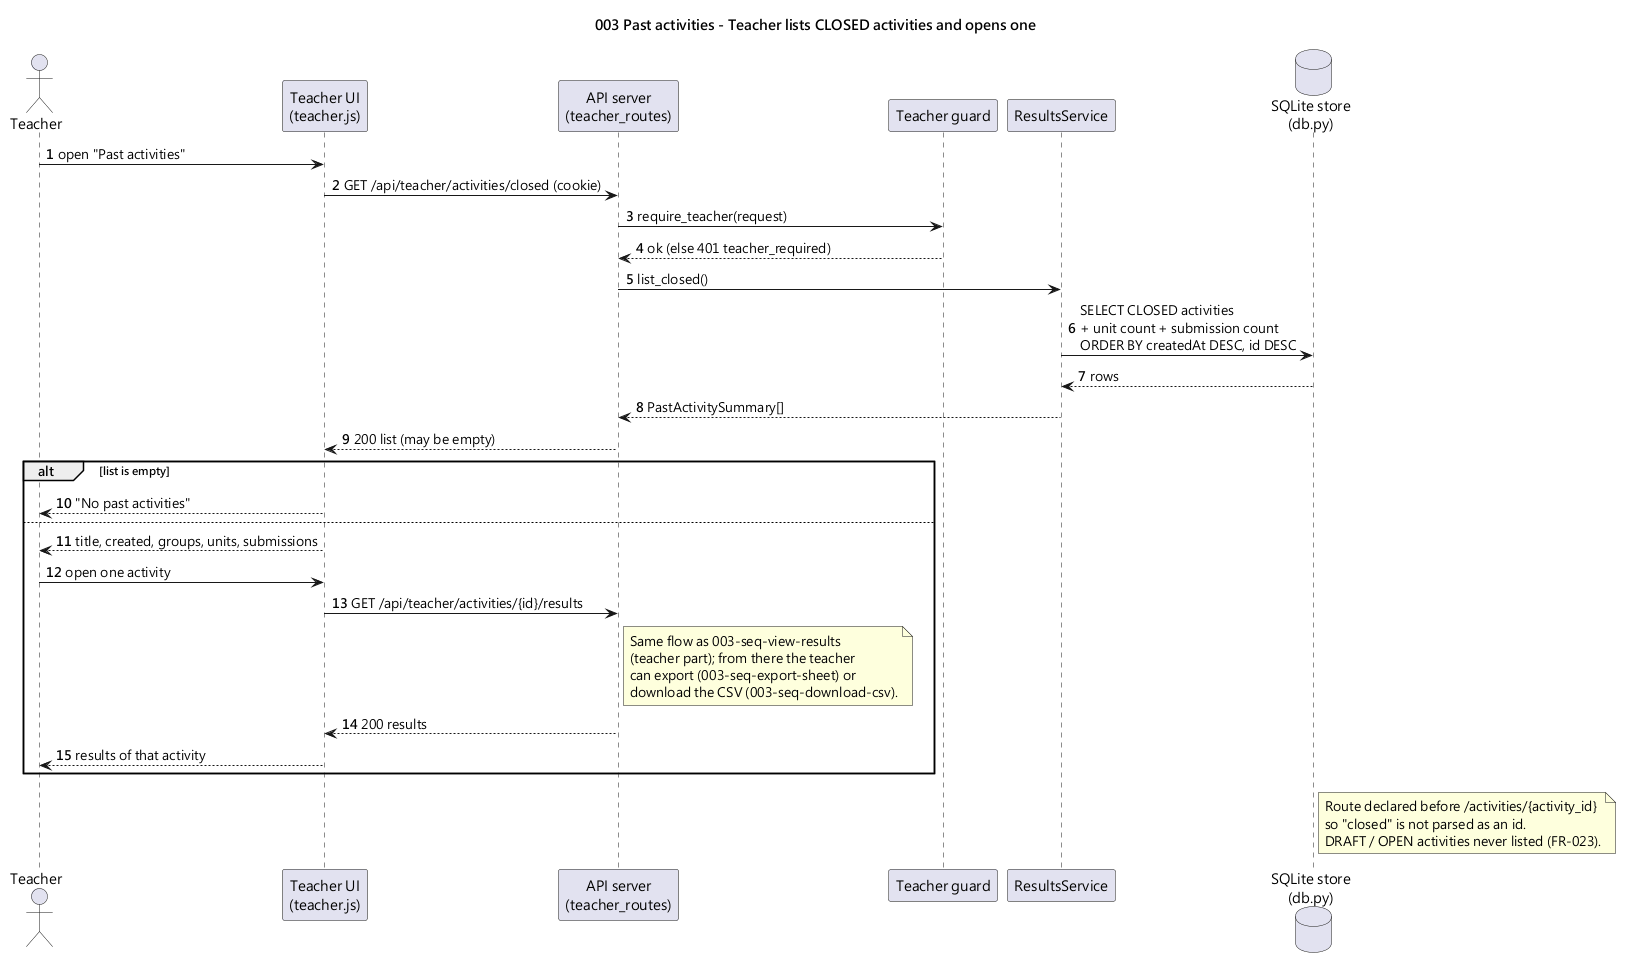
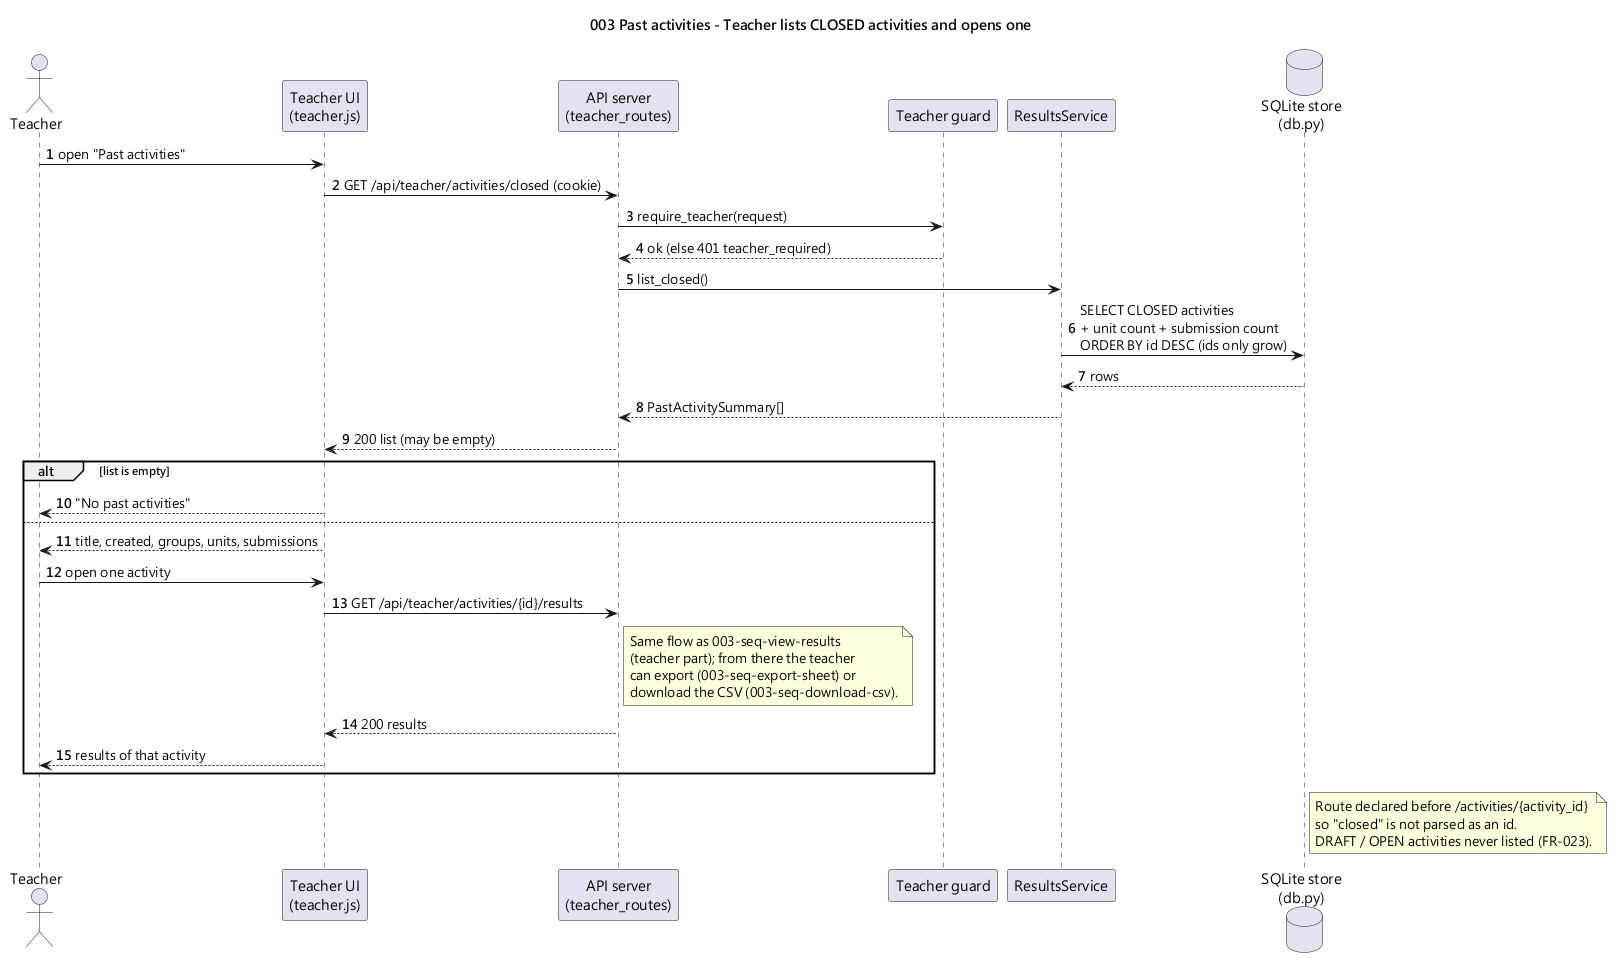
chore(003): Phase 7 polish - log hygiene, CLOSED push latency, code-vs-diagram verification
- test_logs_003: no answers / names in logs during results, export, CSV.
- test_push_latency: CLOSED snapshot with full results reaches 60 sockets in < 1 s.
- diagrams/VERIFICATION.md Feature 003: E8-E11 diagram corrections, re-rendered 16/16.
- docs/verification.md: test-first record and automated run (550 passed).

diff --git a/tests/integration/test_push_latency.py b/tests/integration/test_push_latency.py
@@ -56,3 +56,34 @@ def test_phase_change_and_submission_reach_everyone_within_one_second(app, clien
         submit_seconds = time.monotonic() - started
         print(f"submission reached 2 teacher + 5 group sockets in {submit_seconds:.3f} s")
         assert submit_seconds < 1.0, f"submission reached teachers + group in {submit_seconds:.3f} s"
+
+        # 003 SC-001 (T035): the CLOSED snapshot now carries the full results for every member.
+        for g in range(1, GROUPS + 1):
+            for u in a["units"]:
+                answers = [{"subPart": sl["subPart"], "text": f"g{g}"} for sl in u["slots"]]
+                if g == 7 and u["id"] == unit["id"]:
+                    continue  # already submitted above
+                r = submitter.post("/api/student/submissions", headers=cookie(tokens[(g, 0)]),
+                                   json={"unitId": u["id"], "answers": answers})
+                assert r.status_code == 201, r.text
+        for ws in teachers:  # drain the submission pushes
+            while True:
+                try:
+                    recv(ws, timeout=0.2)
+                except AssertionError:
+                    break
+        for ws in students.values():
+            while True:
+                try:
+                    recv(ws, timeout=0.05)
+                except AssertionError:
+                    break
+        started = time.monotonic()
+        assert client.post(f"/api/teacher/activities/{a['id']}/end").status_code == 200
+        for ws in students.values():
+            state = next_of_type(ws, "student.state")["state"]
+            assert state["activity"]["phase"] == "CLOSED"
+            assert len(state["results"]["units"]) == len(a["units"])
+        close_seconds = time.monotonic() - started
+        print(f"CLOSED with results reached 60 student sockets in {close_seconds:.3f} s")
+        assert close_seconds < 1.0, f"CLOSED with results reached all students in {close_seconds:.3f} s"

diff --git a/tests/integration/test_logs_003.py b/tests/integration/test_logs_003.py
@@ -1,0 +1,39 @@
+"""No answer text or display names in logs during results, export and CSV (003 T034, FR-024)."""
+
+from __future__ import annotations
+
+import logging
+
+from tests.live_helpers import create_activity, open_activity
+
+SENTINEL = "zq9SENTINEL003x"
+SID = "template_group"
+
+
+def test_results_export_and_csv_log_no_student_data(client, student_client, fake_adapter, caplog):
+    caplog.set_level(logging.DEBUG)
+    a = create_activity(client)
+    s = student_client()
+    r = s.post("/api/student/join", json={
+        "activityId": a["id"], "groupNumber": 1, "displayName": f"名-{SENTINEL}"})
+    assert r.status_code == 201
+    open_activity(client, a)
+    unit = a["units"][2]  # single
+    body = {"unitId": unit["id"], "answers": [{"subPart": 1, "text": f"=ans-{SENTINEL}"}]}
+    assert s.post("/api/student/submissions", json=body).status_code == 201
+    assert client.post(f"/api/teacher/activities/{a['id']}/end").status_code == 200
+
+    s.get("/api/student/state")
+    assert client.get(f"/api/teacher/activities/{a['id']}/results").status_code == 200
+    assert client.get(f"/api/teacher/activities/{a['id']}/results.csv").status_code == 200
+    assert client.post(f"/api/teacher/activities/{a['id']}/export").status_code == 200
+
+    grid = fake_adapter.read_tab(SID, 0).grid
+    del grid[10]  # the winning question disappears: blocked export
+    fake_adapter.replace_tab(SID, 0, grid)
+    assert client.post(f"/api/teacher/activities/{a['id']}/export").status_code == 409
+
+    assert caplog.records, "expected some log records to inspect"
+    assert any("export" in rec.getMessage() for rec in caplog.records)
+    for record in caplog.records:
+        assert SENTINEL not in record.getMessage(), (record.name, record.getMessage())

diff --git a/diagrams/VERIFICATION.md b/diagrams/VERIFICATION.md
@@ -220,3 +220,93 @@ Re-rendered with `java -jar tools/plantuml.jar "./diagrams/*.puml"` (exit 0, 12/
 
 Not discrepancies: `/student` and the `/` redirect have no sequence diagram (research R8); the
 teacher and student pages are covered by the component diagram and the manual checks M11–M25.
+
+---
+
+# Code-vs-Diagram Verification — Feature 003 (Principle VIII)
+
+**Date**: 2026-11-27 · **Scope**: `src/quizbuzzer/` after `/speckit-implement` for 003 (T001–T038;
+README T039 and the manual checks T040 left to a human) · **Diagrams**: `system-component`,
+`domain-class`, `003-seq-view-results`, `003-seq-export-sheet`, `003-seq-download-csv`,
+`003-seq-past-activities` · **Method**: every element, name, call, route and status code below
+was checked by reading the code against the `.puml` source.
+
+**Result**: consistent after 4 diagram corrections (E8–E11) plus the implementation-time change
+recorded in plan.md (`load`, US2). In every case the code follows the spec and contracts, so the
+diagrams were updated. Re-rendered with `java -jar tools/plantuml.jar "./diagrams/*.puml"`
+(exit 0, 16/16 PNGs fresh); `003-seq-view-results` and `003-seq-export-sheet` inspected visually.
+
+## system-component.puml
+
+| Diagram element | Code | Status |
+|---|---|---|
+| Teacher UI (… results, export, CSV, past activities) | `teacher.js`: `showResults`, export button with `confirm()`, `csv-link`, `loadPast` | ✅ |
+| Student UI (… results when CLOSED) | `student.js`: `renderResults` (winner, rank table, 無人作答) | ✅ |
+| Visibility filter `student_view(…, results: CLOSED only)` | `student_view(..., *, results=None)`; adds `results` only for a member of the same CLOSED activity | ✅ |
+| Results service `ResultsService (results, past list, CSV)` | `teacher_results`, `load`, `results_for`, `list_closed`, `results_csv`; pure `build_results`, `results_out`, `csv_filename` | ✅ |
+| Sheet exporter `SheetExporter (re-read, re-locate, write)` | `SheetExporter.export`, pure `plan_export`, `format_cell`, `ExportBlocked`, `ExportNotShared` | ✅ |
+| CSV writer `to_csv(results) -> bytes` | `csv_export.to_csv` (pure) | ✅ |
+| TR → RES, TR → EXP | `get_results`, `closed_activities`, `results_csv` → `app.state.results`; `export_to_sheet` → `app.state.exporter` | ✅ |
+| PART → RES `results_for(activity)` only when CLOSED | `ParticipationService._member_view` | ✅ |
+| RES → DB read only; RES → CSVW | no write in `results_service.py`; `results_csv` calls `to_csv` | ✅ |
+| EXP → RES "teacher results (winners)" | `self.results_service.load(activity_id, action="export")` | ⚠ → diagram updated (E8) |
+| EXP → SAI `read_tab` (read-only); EXP → SWI `write_cells(spreadsheet_id, sheet_id, tab_title, cells)`; EXP → PARSER `parse` | `adapter.read_tab`, `writer.write_cells(tab.spreadsheet_id, tab.sheet_id, tab.title, cells)`, `guided_notes_parser.parse` | ✅ |
+| `SheetsWriter`; `GoogleSheetsWriter` (own credentials, write scope); one `values.batchUpdate` RAW | `sheets_adapter.SheetsWriter`; `google_sheets_writer.py` (`WRITE_SCOPE`, one `batchUpdate`, `valueInputOption: RAW`) | ✅ |
+| GSAD → GSA `spreadsheets.readonly` scope | `READONLY_SCOPE` unchanged; `GoogleSheetsAdapter` has no write method (tested) | ✅ |
+| Notes: stored addresses never written, ranges from current title; CSV rules; lazy wrappers; guard covers 003 routes | `plan_export` uses parsed `a1_ref`; `LazyGoogleSheetsWriter`; guard test lists 003 routes | ✅ |
+
+## domain-class.puml
+
+| Diagram element | Code (`models.py`) | Status |
+|---|---|---|
+| `ActivityResults {activityId, title, units}` | also `phase`, `group_count` | ⚠ → diagram updated (E9) |
+| `UnitResult {number, kind, entries, winner(), noAnswer()}` | also `unit_id`, `sub_parts`; `winner` / `no_answer` properties | ⚠ → diagram updated (E9) |
+| `ResultEntry {…, isWinner : bool, submitterName}` | `is_winner` property, field `submitted_by` | ⚠ → diagram updated (E9) |
+| `StudentResults <<view>>` projected by `student_view()` | `visibility._student_results` | ✅ |
+| `PastActivitySummary`, `CellWrite {a1Ref, text}`, `ExportReport {cellsWritten, unitsWritten, unitsSkipped}`, `ExportProblem {kind, questionNumber, subPart, code, message}` | same fields | ✅ |
+| Notes: stored `AnswerSlot` cell never written by 003; `Submission` read only, ranks to students only when CLOSED | `plan_export`; `student_view` | ✅ |
+
+## 003-seq-view-results.puml
+
+| Step | Code | Status |
+|---|---|---|
+| `publish_student_states()` after End; results built once, before the socket loop | built in `_member_view` per StudentKey (cached per key in `_send`) | ⚠ → diagram updated (E10) |
+| filter alt: member of CLOSED → results without names / times; no membership → none | `student_view` | ✅ |
+| Reconnect `API -> PSVC : state_for(cookie)` | `state_for_token` | ⚠ → diagram updated (E10) |
+| Teacher: `teacher_results` → 404 / 409 `phase_conflict` / 200 | `get_results` + error mappings | ✅ |
+
+## 003-seq-export-sheet.puml
+
+| Step | Code | Status |
+|---|---|---|
+| `POST …/export`, guard, `export(activity_id)` | `export_to_sheet` | ✅ |
+| `load(...)`: 404 `not_found`, 409 `phase_conflict` | `ResultsService.load` | ✅ (plan.md US2 change) |
+| zero winners → report 0, no Google call | early return in `export` | ✅ |
+| `read_tab`: not shared → 403 `export_not_shared`; gone → 404 `not_found`; down → 502 `sheets_unavailable` | `export` + error mappings | ✅ |
+| `parse` → `plan_export`; problems → 409 `export_blocked`, nothing written | `plan_export` raises before `write_cells` | ✅ |
+| `write_cells(..., current tab title, cells)` → one `batchUpdate` RAW; 403 → 403 `sheet_read_only`; success → 200 report | `GoogleSheetsWriter._execute`; `export_to_sheet` | ✅ |
+
+## 003-seq-download-csv.puml
+
+| Step | Code | Status |
+|---|---|---|
+| `GET …/results.csv`, guard, `results_csv`; 404 / 409 | route + `ResultsService.results_csv` (`action="csv"`) | ✅ |
+| `to_csv`: BOM + header, `sub_part` empty for single, `is_winner`, ISO 8601 offset, `'` prefix, quoting | `csv_export.to_csv` | ✅ |
+| 200 `text/csv; charset=utf-8`, attachment, safe file name | `Content-Disposition` with `filename` + `filename*` | ✅ |
+
+## 003-seq-past-activities.puml
+
+| Step | Code | Status |
+|---|---|---|
+| `GET /api/teacher/activities/closed` before `{activity_id}` | route order in `teacher_routes.py` | ✅ |
+| `list_closed()` → `ORDER BY createdAt DESC, id DESC` | `db.list_closed_activities`: `ORDER BY a.id DESC` (research R7) | ⚠ → diagram updated (E11) |
+| open one → results flow | `loadPast` → `loadResults` | ✅ |
+
+## Discrepancies and resolutions (003)
+
+| # | Diagram | Was | Now (matches code and spec) |
+|---|---|---|---|
+| E8 | system-component | EXP → RES "teacher results (winners)" | `load(activity_id, "export")` (activity + results) |
+| E9 | domain-class | result types missing `phase`, `groupCount`, `unitId`, `subParts`; `submitterName`; `isWinner` field | fields as in `models.py`; `submittedBy`; `isWinner()` derived |
+| E10 | 003-seq-view-results | results built once before the loop; `state_for(cookie)` | built per member key inside the loop; `state_for_token(cookie)` |
+| E11 | 003-seq-past-activities | `ORDER BY createdAt DESC, id DESC` | `ORDER BY id DESC (ids only grow)` |

diff --git a/specs/003-results-export/tasks.md b/specs/003-results-export/tasks.md
@@ -183,11 +183,11 @@ implementation task it covers. Record the red run in `docs/verification.md` › 
 
 ## Phase 7: Polish & Cross-Cutting Concerns
 
-- [ ] T034 [P] Write `tests/integration/test_logs_003.py`: run results, export (success and blocked) and CSV with sentinel answers and display names; assert none appears in captured logs at any level (FR-024). Fix any log call that fails it.
-- [ ] T035 [P] Extend `tests/integration/test_push_latency.py` (SC-001): with 60 student sockets across 12 groups and submissions in several units, every socket receives the CLOSED `student.state` (members with `results`) within 1 s of `POST …/end` returning. If it fails, cache results once per publish instead of per socket.
-- [ ] T036 Run `uv run pytest` and record the result (count, duration, commit) in `docs/verification.md` › Automated test runs (003). Confirm every test-first row has its red entry and its green commit.
-- [ ] T037 Code-vs-diagram verification (Principle VIII): compare `src/quizbuzzer/` with `diagrams/system-component.puml`, `domain-class.puml` and every `003-seq-*.puml` (names, calls, routes, status codes) using the plan's Diagram Blueprint. Record a "Feature 003" section in `diagrams/VERIFICATION.md` in the same table format as 001/002. Fix diagrams (or code, when the code breaks the spec), re-render with `java -jar tools/plantuml.jar "./diagrams/*.puml"` (exit 0, a PNG next to every `.puml`), and update `plan.md` › Diagram changes if anything changed.
-- [ ] T038 Final consistency pass (Principle VII): `spec.md`, `plan.md`, `contracts/rest-api.md`, `data-model.md`, `quickstart.md` match the shipped behaviour; mark finished tasks done in this file.
+- [X] T034 [P] Write `tests/integration/test_logs_003.py`: run results, export (success and blocked) and CSV with sentinel answers and display names; assert none appears in captured logs at any level (FR-024). Fix any log call that fails it.
+- [X] T035 [P] Extend `tests/integration/test_push_latency.py` (SC-001): with 60 student sockets across 12 groups and submissions in several units, every socket receives the CLOSED `student.state` (members with `results`) within 1 s of `POST …/end` returning. If it fails, cache results once per publish instead of per socket.
+- [X] T036 Run `uv run pytest` and record the result (count, duration, commit) in `docs/verification.md` › Automated test runs (003). Confirm every test-first row has its red entry and its green commit.
+- [X] T037 Code-vs-diagram verification (Principle VIII): compare `src/quizbuzzer/` with `diagrams/system-component.puml`, `domain-class.puml` and every `003-seq-*.puml` (names, calls, routes, status codes) using the plan's Diagram Blueprint. Record a "Feature 003" section in `diagrams/VERIFICATION.md` in the same table format as 001/002. Fix diagrams (or code, when the code breaks the spec), re-render with `java -jar tools/plantuml.jar "./diagrams/*.puml"` (exit 0, a PNG next to every `.puml`), and update `plan.md` › Diagram changes if anything changed.
+- [X] T038 Final consistency pass (Principle VII): `spec.md`, `plan.md`, `contracts/rest-api.md`, `data-model.md`, `quickstart.md` match the shipped behaviour; mark finished tasks done in this file.
 - [ ] T039 *(Not in the unattended run.)* `README.md`: add the 003 features (results, export needs Editor access, CSV) to the run instructions. Dependency table unchanged (research R10).
 - [ ] T040 *(Human tester; the AI does not mark this done.)* Manual verification M31–M42 from `quickstart.md` §4 on real devices and a real sheet, recorded in `docs/verification.md` › 003 (Principle V).
 

diff --git a/docs/verification.md b/docs/verification.md
@@ -172,6 +172,7 @@ Each core-rule test was written first, run, and **observed failing** before its 
 | 4 · US2 teacher results + export to sheet | `unit/test_sheet_exporter.py` (format_cell; plan_export re-location on 3 shapes × unchanged / 2 rows above / blank row between / column inserted; abort path; SheetExporter nothing-written paths, T014–T017), `unit/test_google_sheets_writer.py` (T018), `integration/test_export_api.py` (T019), `integration/test_results_api.py` (teacher part, T020) | 2 collection errors (`sheet_exporter`, `google_sheets_writer` missing) + 16 failed integration tests (routes missing). After the modules existed, 3 failures were a wrong test assertion (a set intersection between moved and stored addresses collides when a 2-row shift lands on another slot's old cell); replaced by the intended per-slot check, the exact-address assertion was unchanged | 519 passed (full suite) | US2 commit |
 | 5 · US3 CSV download | `unit/test_csv_export.py` (BOM, header, CRLF, order, quoting, formula prefix, Chinese, empty; T025), `integration/test_csv_api.py` (T026) | 2 collection errors (`services.csv_export` missing); then 1 genuine failure in the new code (the backslash was missing from the unsafe-filename character class), fixed in `results_service.csv_filename` | 544 passed (full suite) | US3 commit |
 | 6 · US4 past CLOSED activities | `unit/test_results_service.py` (`list_closed`, T030), `integration/test_past_activities_api.py` (incl. 003 routes in the guarded set, T031) | 5 failed (`list_closed` missing, `/activities/closed` route missing) | 549 passed (full suite) | US4 commit |
+| 7 · Polish: log hygiene, CLOSED push latency | `integration/test_logs_003.py` (T034), `integration/test_push_latency.py` (CLOSED part, T035) | **not red**: both passed on first run (they verify existing behaviour; not Principle V core rules) | 550 passed | Polish commit |
 
 ### 002 tests changed by 003 (spec change, not weakening)
 
@@ -184,3 +185,13 @@ FR-025 had deferred all-group results to 003). Two 002 assertions encoded the ol
 | `integration/test_dashboard_api.py::test_end_moves_students_to_closed_with_own_submissions_only` | `"other-2" not in repr(st1)` (whole state) | `"other-2" not in repr(st1["group"])` **and** `"other-2" in repr(st1["results"])` (and symmetrically for the other student) |
 
 Every pre-CLOSED leak assertion is unchanged.
+
+## Automated test runs (003)
+
+| Date | Commit | Result | Notes |
+|---|---|---|---|
+| 2026-11-27 | `3d84633` + Polish | **550 passed**, 0 skipped, ~77 s | Baseline 410 → 550 (+140). Includes re-location on 3 sheet shapes × 4 layouts, every nothing-written path, CSV rules, the extended leak test. Push latency at 60 student + 2 teacher sockets: OPEN 0.047 s, submission 0.031 s, CLOSED with full results 0.265 s (SC-001 target < 1 s) |
+
+## Manual verification (M31–M42)
+
+Not run yet: to be done by a human tester with real devices and a real sheet ([quickstart.md §4](../specs/003-results-export/quickstart.md)), tasks.md T040.

diff --git a/specs/003-results-export/plan.md b/specs/003-results-export/plan.md
@@ -61,6 +61,10 @@ The diagrams are the primary blueprint, and module and class names match them ex
 **Diagram changes made during implementation** (re-rendered, exit 0):
 - US2: `003-seq-export-sheet`: `EXP -> RES` is `load(activity_id, action="export")`, which returns
   the activity (units and slots) with its results; was `teacher_results(activity_id)`.
+- Code-vs-diagram verification (T037, `diagrams/VERIFICATION.md` › Feature 003): E8
+  `system-component` EXP → RES is `load`; E9 `domain-class` result-type fields; E10
+  `003-seq-view-results` results built per member key inside the publish loop,
+  `state_for_token`; E11 `003-seq-past-activities` `ORDER BY id DESC`. Re-rendered, exit 0, 16/16.
 
 ## Technical Context
 
